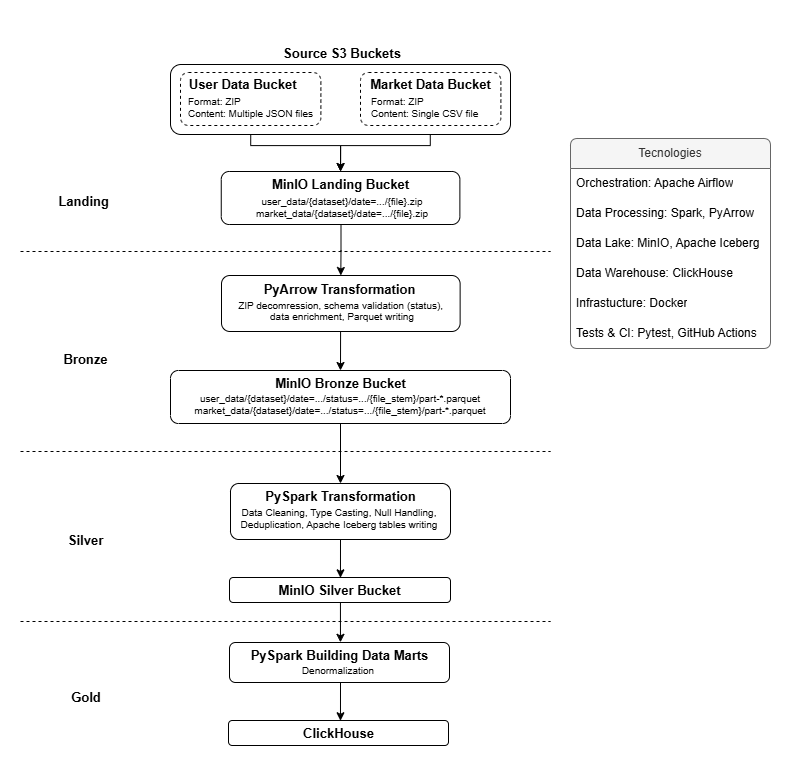
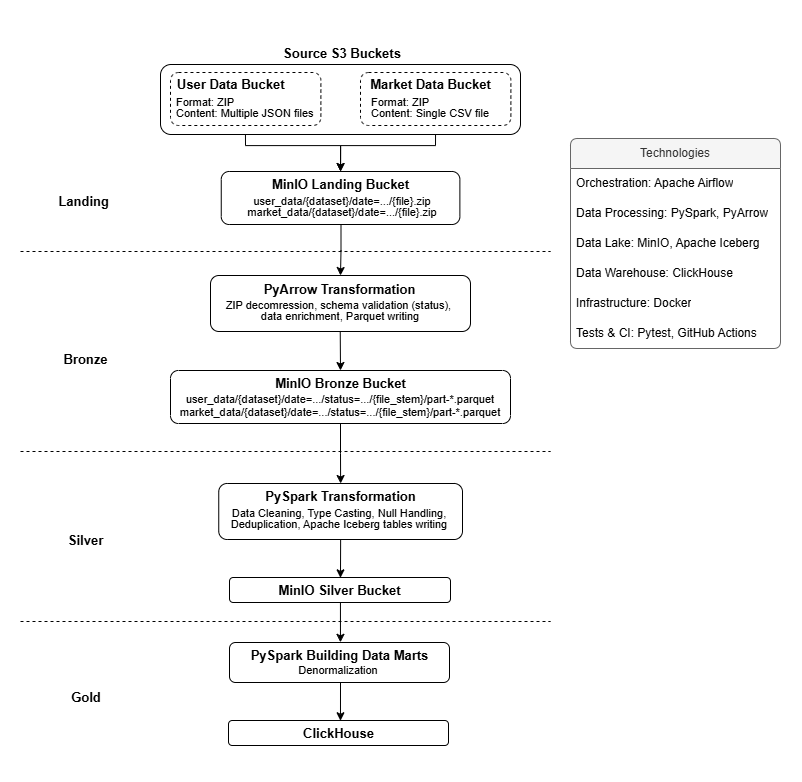
fix typos and font size in architecture-overview.png

diff --git a/README.md b/README.md
@@ -4,7 +4,7 @@ The ELT pipeline that ingests ZIP files from S3 buckets, decompresses them, and 
 ![The ZIP-Data-Pipeline architecture](./docs/images/architecture-overview.png)
 
 
-## **Tech Stack**
+## **Technologies**
 - **Orchestration:** [Apache Airflow](https://airflow.apache.org/).
 - **Processing:** [Apache Spark](https://spark.apache.org/docs/latest/), [PyArrow](https://arrow.apache.org/docs/python/index.html).
 - **Data Lake:** [MinIO](https://docs.min.io/aistor/), [Apache Iceberg](https://iceberg.apache.org/).
